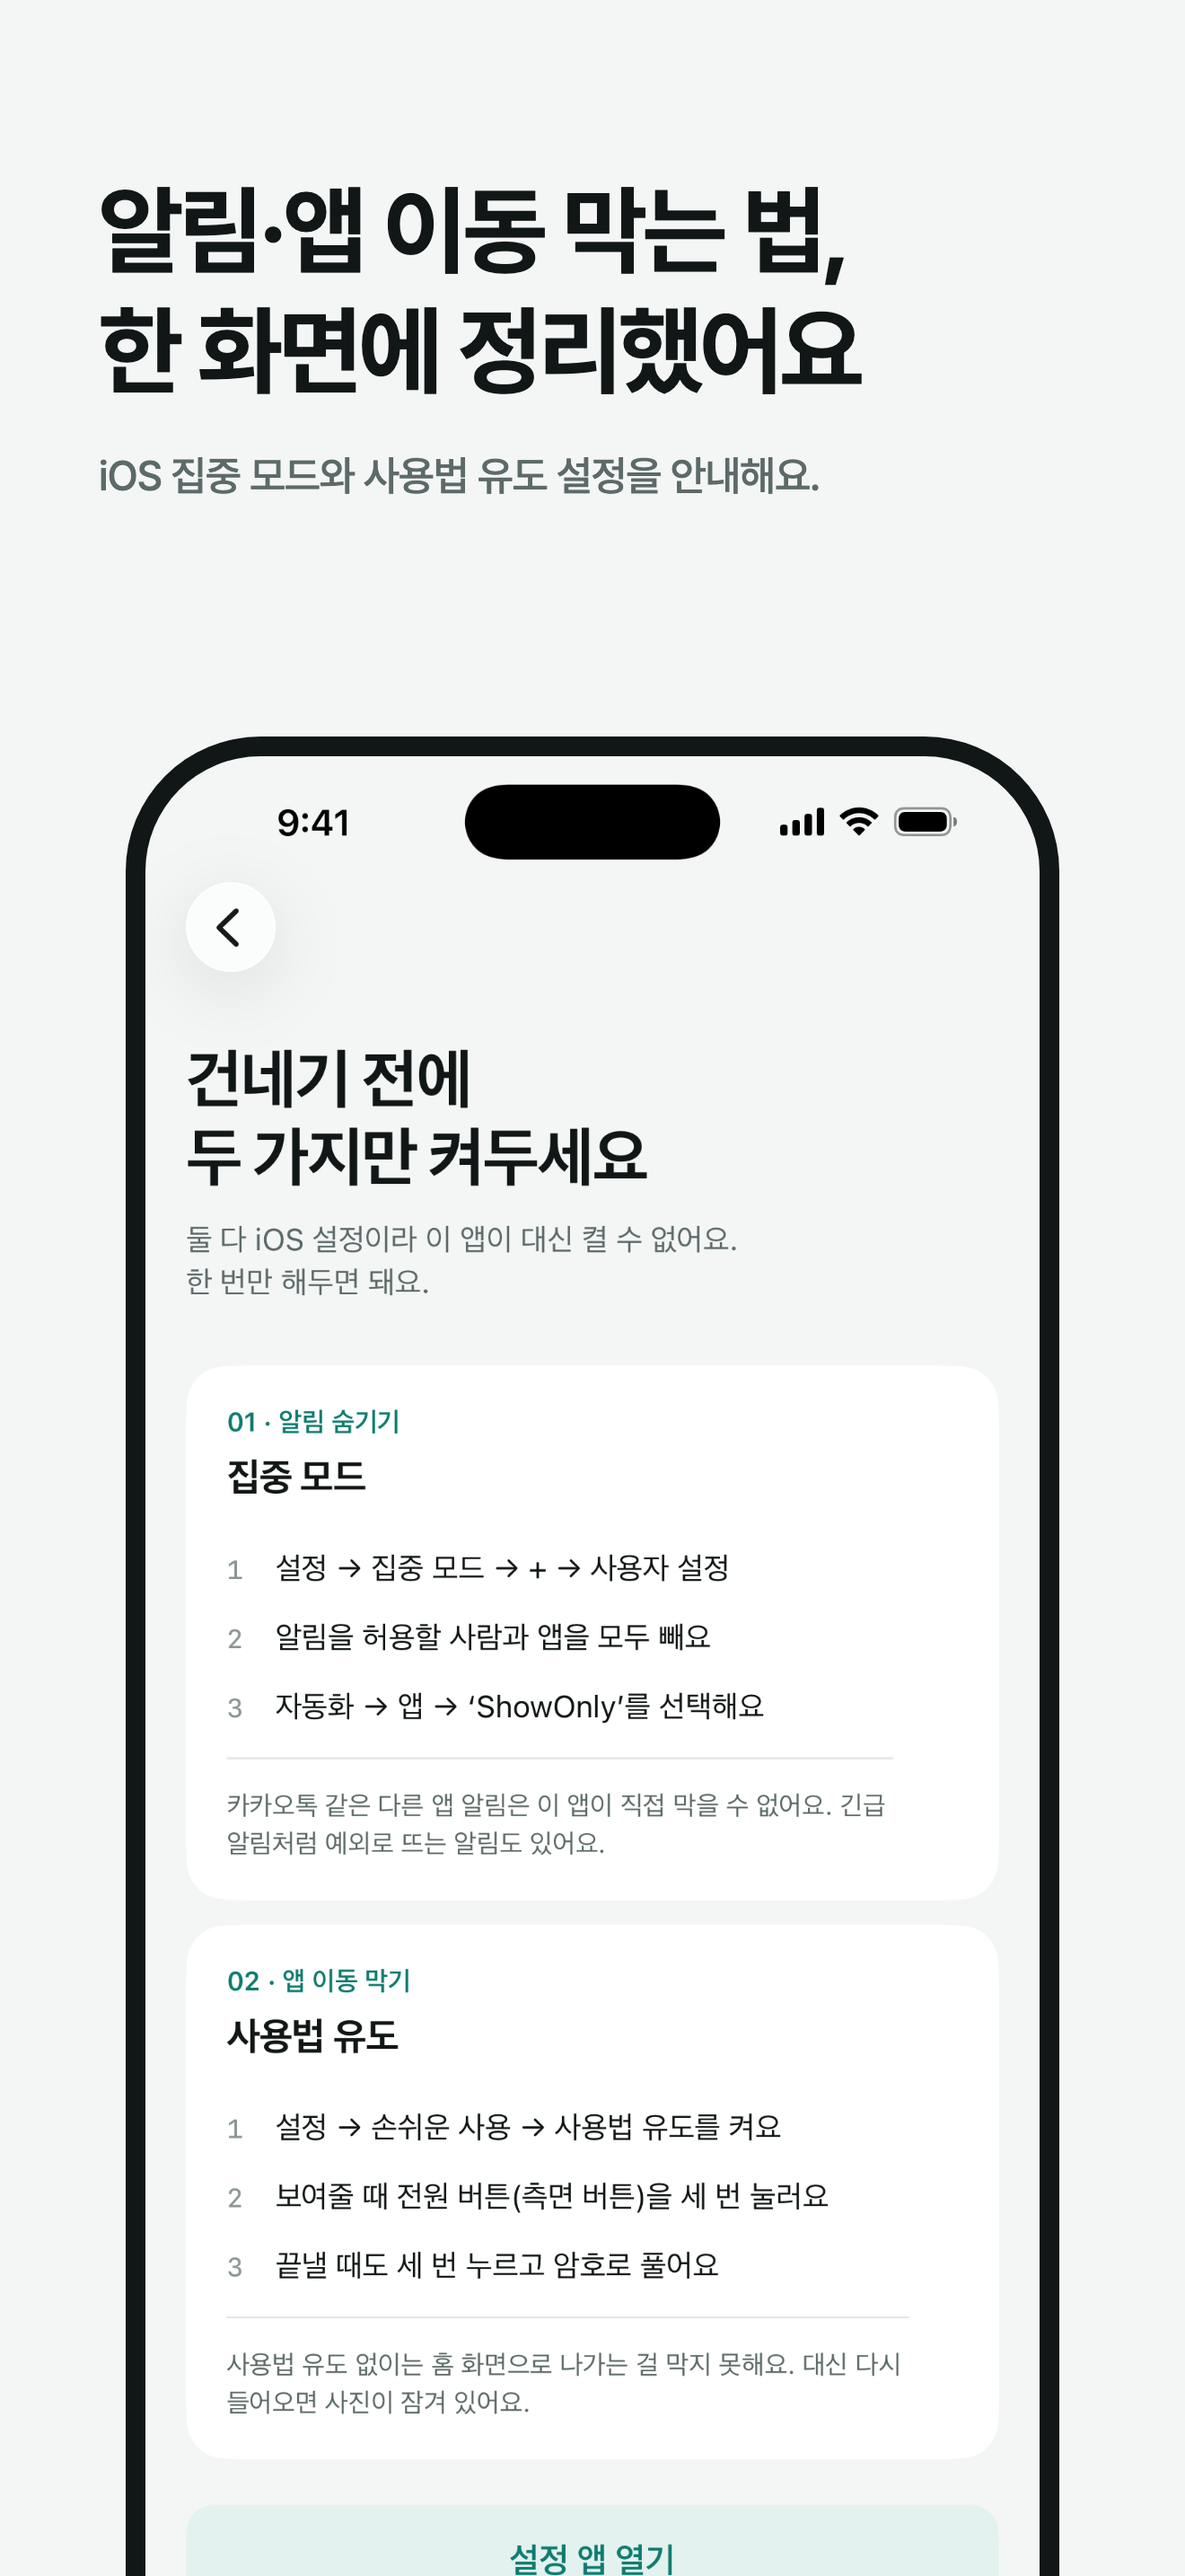
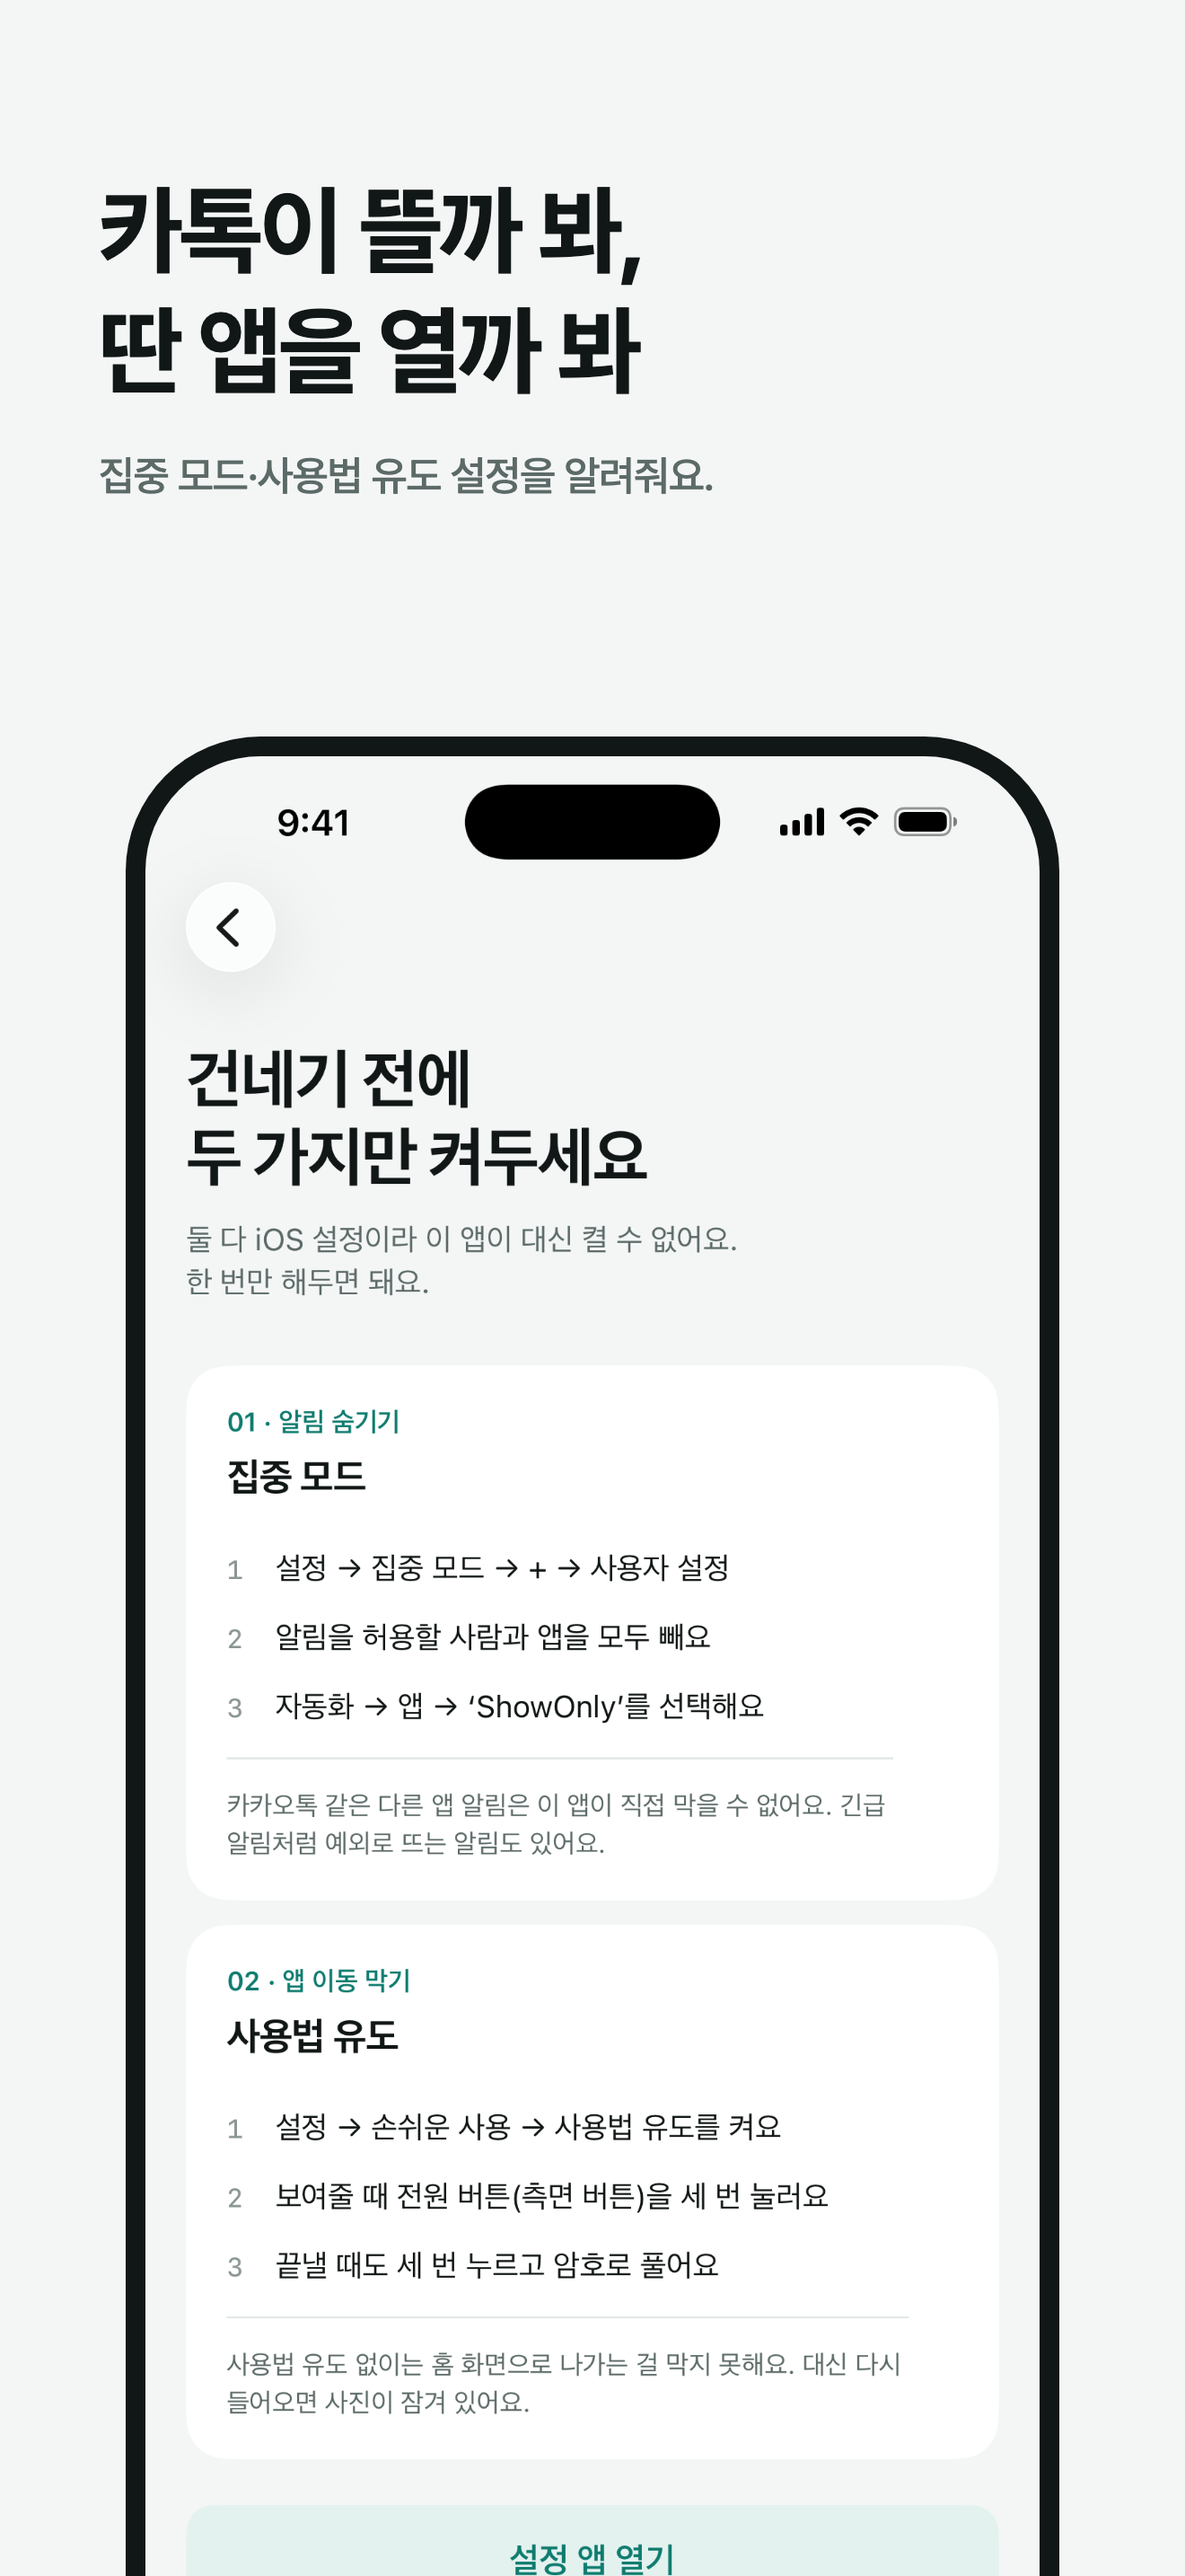
App Store screenshots: rewrite copy around user worries

Changed region(s): [[0.0932, 0.0621, 0.7455, 0.2172]]

diff --git a/design/appstore/build.py b/design/appstore/build.py
@@ -9,10 +9,10 @@ os.makedirs(OUT, exist_ok=True)
 CHROME = "/Applications/Google Chrome.app/Contents/MacOS/Google Chrome"
 
 FRAMES = [
-    ("01", "home_selected", "폰 건넬 때마다\n다른 사진 볼까 봐", "그래서 보여줄 사진만 골라 건네게 만들었어요.", 0),
+    ("01", "home_selected", "폰 건넬 때마다\n다른 사진 볼까 봐", "보여줄 사진만 골라서 건네요.", 0),
     ("02", "viewer", "옆으로 넘겨도\n고른 사진만 나와요", "끝낼 때는 내 Face ID로 확인해요.", 0),
-    ("03", "lock", "앱을 나갔다 오면\n사진은 잠겨 있어요", "다시 보려면 본인 확인이 필요해요.", 0),
-    ("04", "guide_top", "알림·앱 이동 막는 법,\n한 화면에 정리했어요", "iOS 집중 모드와 사용법 유도 설정을 안내해요.", 0),
+    ("03", "lock", "앱을 나갔다 오면\n사진은 잠겨 있어요", "내 Face ID로 다시 열어요.", 0),
+    ("04", "guide_top", "카톡이 뜰까 봐,\n딴 앱을 열까 봐", "집중 모드·사용법 유도 설정을 알려줘요.", 0),
 ]
 
 THEMES = {

diff --git a/design/appstore/README.md b/design/appstore/README.md
@@ -6,10 +6,10 @@
 
 | # | 문구 | 화면 |
 |---|---|---|
-| 01 | 폰 건넬 때마다 다른 사진 볼까 봐 / 그래서 보여줄 사진만 골라 건네게 만들었어요 | 홈 / 선택됨 |
+| 01 | 폰 건넬 때마다 다른 사진 볼까 봐 / 보여줄 사진만 골라서 건네요 | 홈 / 선택됨 |
 | 02 | 옆으로 넘겨도 고른 사진만 나와요 | 뷰어 |
 | 03 | 앱을 나갔다 오면 사진은 잠겨 있어요 | 잠금 |
-| 04 | 알림·앱 이동 막는 법, 한 화면에 정리했어요 | 보호 가이드 |
+| 04 | 카톡이 뜰까 봐, 딴 앱을 열까 봐 / 집중 모드·사용법 유도 설정을 알려줘요 | 보호 가이드 |
 
 집중 모드·사용법 유도는 iOS 기능이라 "앱이 막아준다"가 아니라 "막는 법을 안내한다"로만 쓴다.
 
